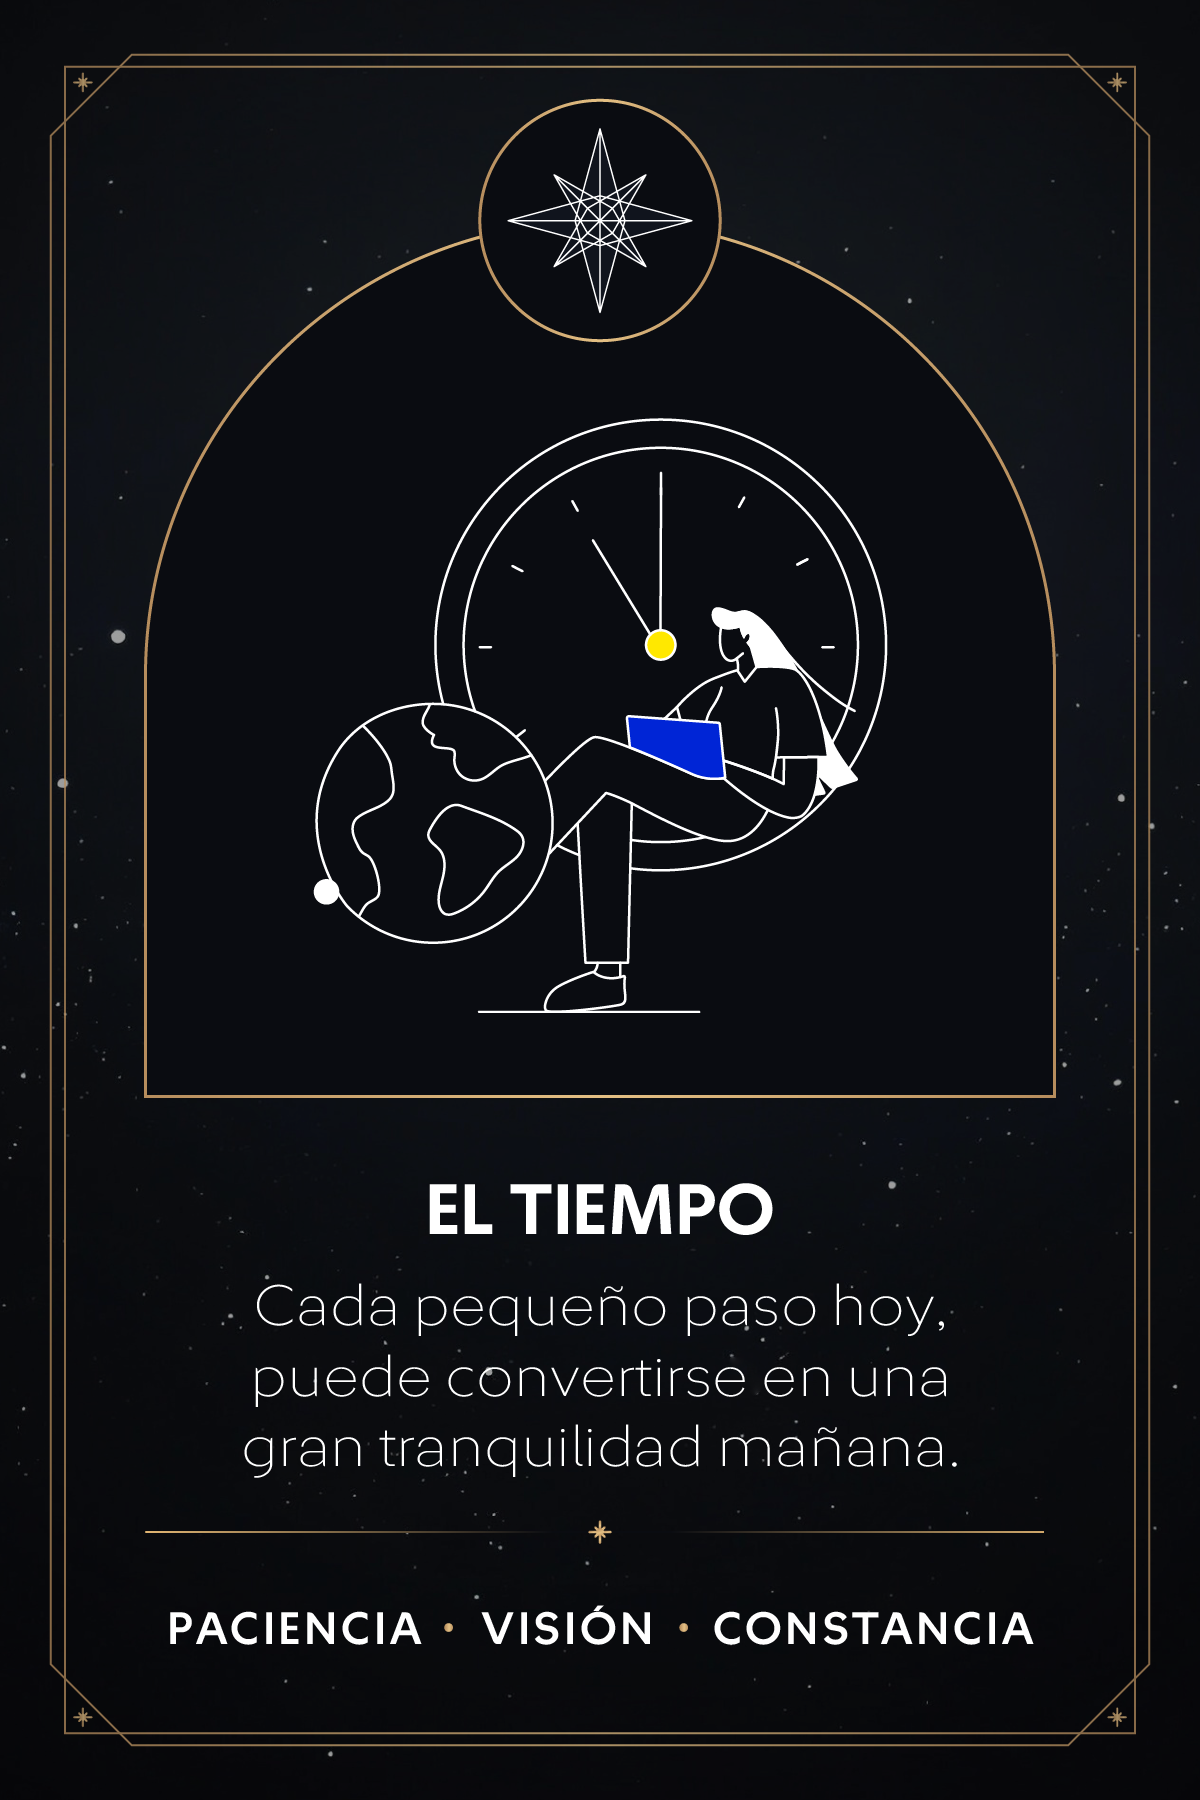
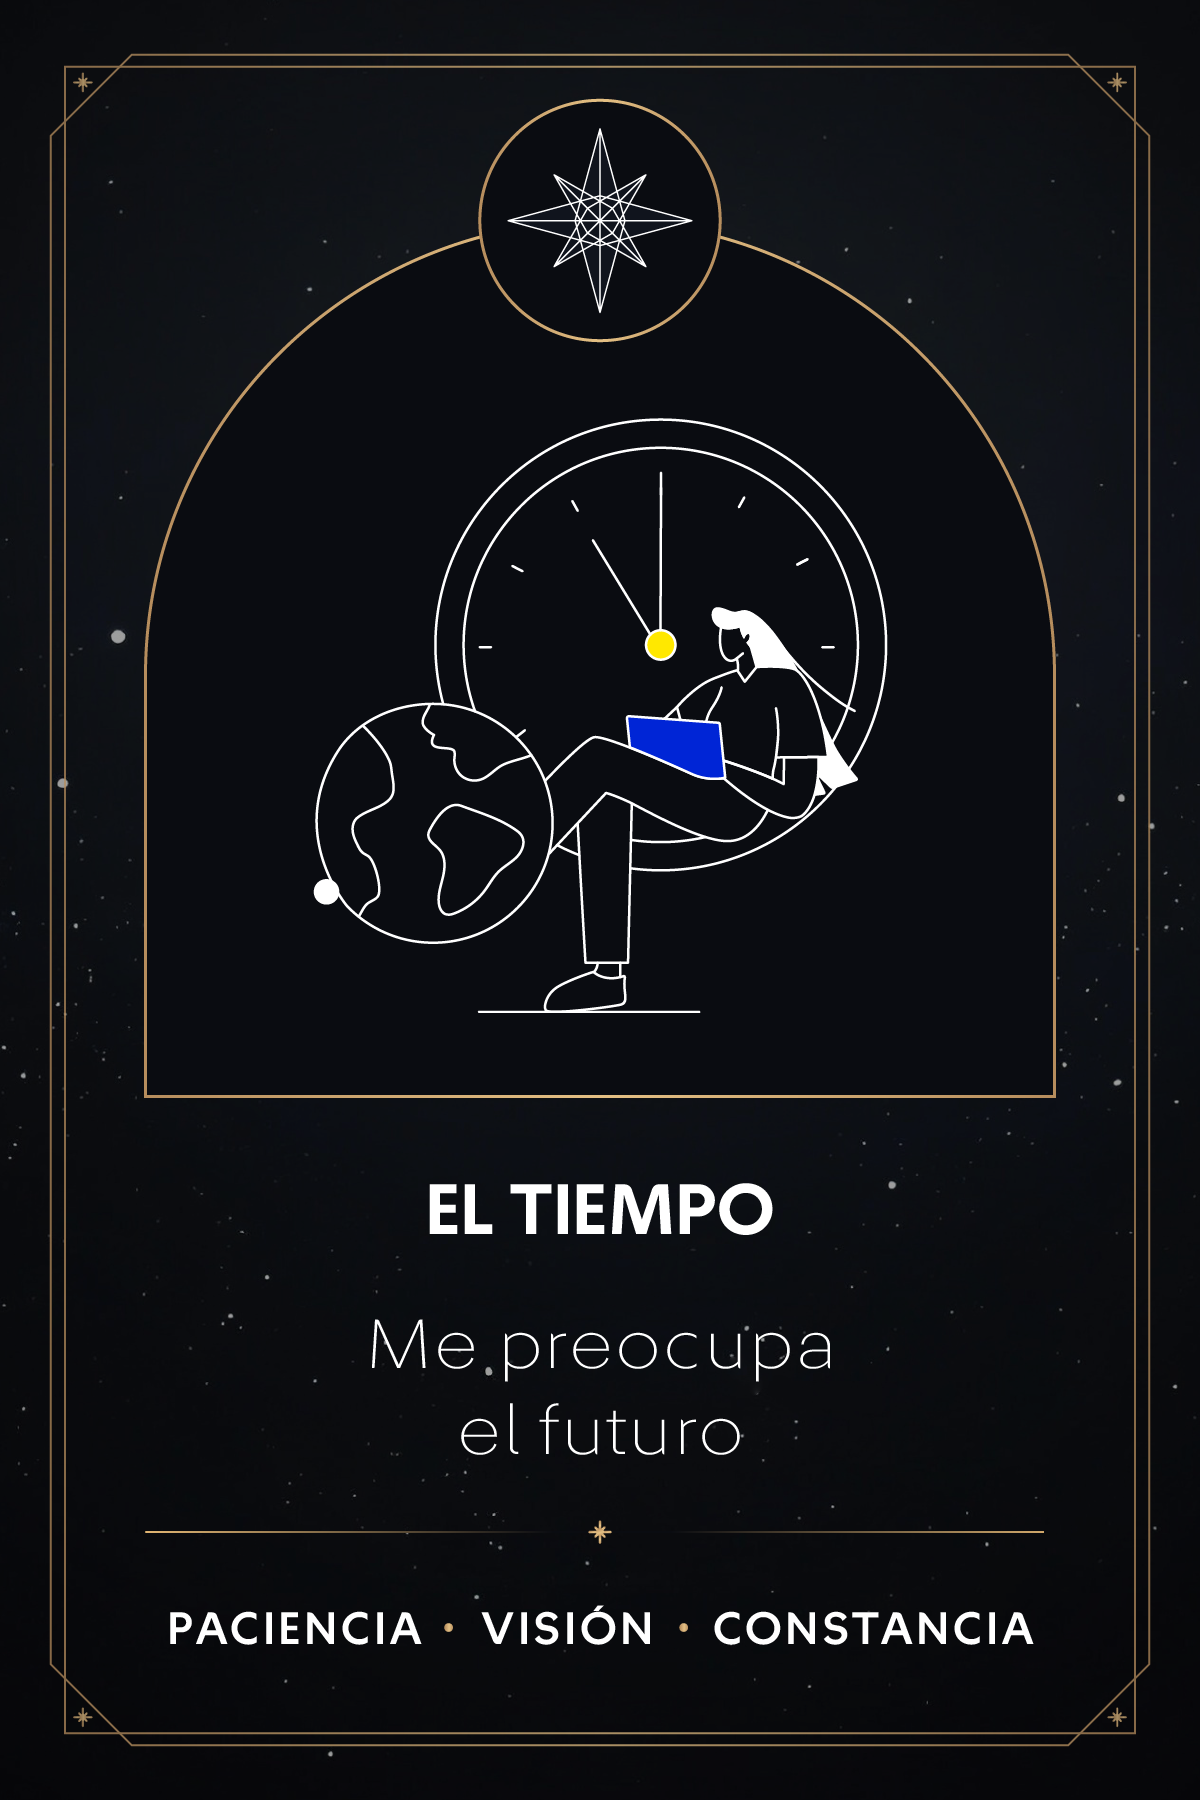
Quitar texto abajo de cartas

Changed region(s): [[0.2158, 0.7156, 0.7708, 0.8089]]

diff --git a/js/cards.js b/js/cards.js
@@ -1,32 +1,23 @@
-/*==================================================
-    CARDS.JS
-    PARTE 1
-==================================================*/
-
 const savingsCards = [
 {
     id:"family",
     front:"assets/cards/family.webp",
     back:"assets/cards/family2.webp",
-    text:"Para ayudar <br>a mi familia"
 },
 {
     id:"life",
     front:"assets/cards/life.webp",
     back:"assets/cards/life2.webp",
-    text:"Tener una<br>mejor vida"
 },
 {
     id:"future",
     front:"assets/cards/future.webp",
     back:"assets/cards/future2.webp",
-    text:"Me preocupa<br>mi futuro"
 },
 {
     id:"save",
     front:"assets/cards/savings.webp",
     back:"assets/cards/savings2.webp",
-    text:"Me cuesta <br>trabajo ahorrar"
 }
 ];
 
@@ -79,14 +70,6 @@ function showSavingsCards(){
 
         </div>
 
-        <div
-            class="card-caption"
-            id="cardCaption">
-
-            ${savingsCards[0].text}
-
-        </div>
-
         <button
             class="btn-yellow"
             id="cardContinue">
@@ -104,14 +87,12 @@ function showSavingsCards(){
 }
 
 /*==================================================
-    PARTE 2
     COVERFLOW
 ==================================================*/
 
 function initCoverflow(){
 
     const cards=[...document.querySelectorAll(".card")];
-    const caption=document.getElementById("cardCaption");
     const button=document.getElementById("cardContinue");
 
     let startX=0;
@@ -130,15 +111,6 @@ function initCoverflow(){
             card.classList.toggle("active",offset===0);
 
         });
-
-        caption.classList.remove("show");
-
-        setTimeout(()=>{
-
-            caption.innerHTML=savingsCards[current].text;
-            caption.classList.add("show");
-
-        },180);
 
     }
 
@@ -219,9 +191,6 @@ function initCoverflow(){
 
 }
 
-/*==================================================
-    PARTE 3
-==================================================*/
 
 function getSelectedSavingsCard(){
 

diff --git a/css/cards.css b/css/cards.css
@@ -110,27 +110,6 @@
 }
 
 /*==================================================
-    TEXTO
-==================================================*/
-
-.card-caption{
-    min-height:50px;
-    text-align:center;
-    margin-top:12px;
-    line-height:1.3;
-    font-size:1.2rem;
-    font-weight:500;
-    opacity:0;
-    transform:translateY(12px);
-    transition:.35s ease;
-}
-
-.card-caption.show{
-    opacity:1;
-    transform:translateY(0);
-}
-
-/*==================================================
     BOTÓN
 ==================================================*/
 
@@ -224,7 +203,6 @@
 .cards-title{animation-delay:.05s;}
 .cards-subtitle{animation-delay:.15s;}
 .coverflow{animation-delay:.25s;}
-.card-caption{animation-delay:.45s;}
 #cardContinue{animation-delay:.6s;}
 
 /*==================================================
@@ -279,10 +257,6 @@
     .card{
         width:180px;
         --spacing:180px;
-    }
-
-    .card-caption{
-        font-size:1rem;
     }
 
 }
